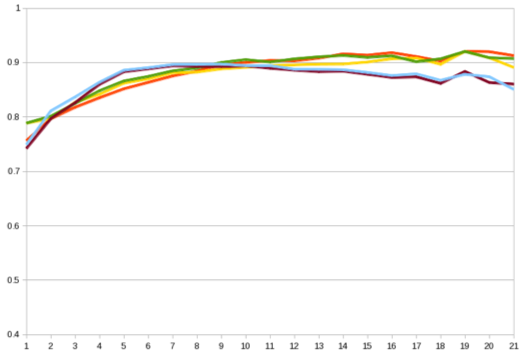
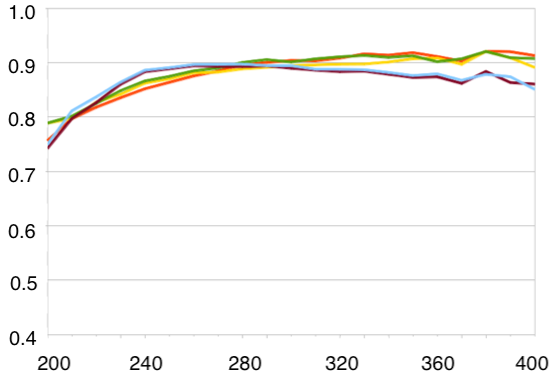
added pics for gaps

diff --git a/ltcc/mirrors.tex b/ltcc/mirrors.tex
@@ -2,24 +2,25 @@
 
 As seen in \F{optics}, each LTCC segment is composed of four optical surfaces: one elliptical mirror,
 one hyperbolic mirror, one cylindrical mirror, and the Winston cone.
-The reflectivity of a random selection of 30 elliptical, cylindrical and hyperbolic mirrors from two sectors was measured.
+The reflectivity of a random selection of 30 elliptical, cylindrical, and hyperbolic mirrors from two sectors was measured.
 All the mirrors analyzed showed significant degradation from the original desired reflectivity of 90$\%$ in the visible spectrum,
 see for example \F{reflectivityBeforeAndAfter} (top).
-A refurbishment of the mirrors was crucial to enhance the detector response to the pion emitted Cherenkov light.
-Due to the material, assembly, and dimensions of the different types of mirrors, two different techniques were applied to refurbish the
-reflective surfaces.
+A refurbishment of the mirrors was crucial to enhance the detector response to the emitted pion Cherenkov light.
+Due to the material, assembly, and dimensions of the different types of mirrors, two different techniques were employed to refurbish the
+reflective surfaces as discussed below.
 
 \begin{figure}
 \centering
-	\includegraphics[width=0.97\columnwidth, height=0.7\columnwidth]{img/mirrorsReflectivityBefore.png}
+	\includegraphics[width=0.99\columnwidth, height=0.7\columnwidth]{img/mirrorsReflectivityBefore.png}
 	\includegraphics[width=0.99\columnwidth, height=0.7\columnwidth]{img/mirrorsReflectivityAfter.png}
 	\caption{Top: Reflectivity measurement as a a function of wavelength of a sample of 8 mirrors before re-coating,
-            each sampled at two different places (front and back). The reflectivity
-				was measured using a monochromator (Newport model CS260-USB-1-FH-A) with a deuterium light source with a reach
-            between 200 nm and 400 nm. The reflectivity showed a degraded quality of about 65$\%$ instead of an optimal 90$\%$.
-			   Bottom: Reflectivity measurement as a function of wavelength of a sample of 5 mirrors measured after gluing the Lexan strips (see text for detail).
-            Note the very high value of reflectivity in the UV region, where most of the Cherenkov light is produced. In the visible spectrum,
-            the reflectivity is about 90$\%$.}
+            each sampled at two different places on their surface. The reflectivity
+			was measured using a monochromator (Newport model CS260-USB-1-FH-A) with a deuterium light source with a reach
+            between 200 nm and 400 nm. The average reflectivity was about 65$\%$ instead of an optimal 90$\%$.
+			Bottom: Reflectivity measurement as a function of wavelength of a sample of 5 mirrors measured
+            after gluing on the Lexan strips (see text for detail).
+            Note the very high value of reflectivity in the UV region, where most of the Cherenkov light is produced.
+            In the visible spectrum, the reflectivity is about 90$\%$.}
 	\label{fig:reflectivityBeforeAndAfter}
 \end{figure}
 
@@ -27,55 +28,74 @@ reflective surfaces.
 \subsubsection{Re-coating of cylindrical mirrors}
 
 The cylindrical mirrors range from 6 to 12 inches in length. Each mirror is made from a single piece of aluminum or plastic.
-Due to the small size, they fit in most vacuum chambers used to coat mirrors by evaporation of aluminum with magnesium fluoride
-(AlMgF$_2$). After successful testing of re-coating of AlMgF$_2$ onto the existing substrate, the work of re-coating 216 cylindrical mirrors
+Due to their small size, they fit in most vacuum chambers used to coat mirrors by evaporation of aluminum with magnesium fluoride
+(AlMgF$_2$). After successful testing of re-coating of AlMgF$_2$ onto the existing substrate, the work of re-coating the 216 cylindrical mirrors
 was awarded to ECI~\cite{ECI}. See \F{reflectivityBeforeAndAfter} (bottom) for typical reflectivity values after re-coating.
 
 \subsubsection{Re-coating of elliptical and hyperbolic mirrors}
 
-The elliptical and hyperbolic mirrors are composed by a Kevlar support structure with a Lexan substrate. The mounting hardware
-material, which allowed for pitch, roll, and yaw alignment of the mirrors, included wood and aluminum that was glued to the support structure.
+The elliptical and hyperbolic mirrors are composed of a Kevlar support structure with a Lexan substrate.
+It was not possible to changed this hardware from its original design and construction in 1997.
+The support material, which allowed for pitch, roll, and yaw alignment of the mirrors, included
+wood and aluminum that was glued to the support structure.
 
-Several companies attempted to re-coat these mirrors but failed due to the outgassing of the various materials. Furthermore, many of the mirrors
-are $>$1 m in length, longer than most vacuum chambers. Therefore the AlMgF$_2$ could not be re-deposited directly on the mirrors.
+Several companies attempted to re-coat these mirrors but failed due to the outgassing of the various materials.
+Furthermore, many of the mirrors are $>$1 m in length, longer than most vacuum chambers.
+Therefore the AlMgF$_2$ could not be re-deposited directly onto the mirror substrates.
 
-A different approach consisted of coating thin (25 $\mu m$) Lexan strips and gluing the strips onto the mirror substrate. While promising, this
-presented the challenge of protecting the coated Lexan strip from shipping and handling and from the gluing procedure to the mirrors.
+A different approach consisted of coating thin (25 $\mu$m) Lexan strips and gluing the strips onto the mirror substrate.
+While promising, this presented the challenge of protecting the coated Lexan strip from shipping and handling and
+from the gluing procedure to the mirrors.
 
 A working chain was setup to:
 
 \begin{enumerate}
 	\item coat the Lexan strip
-	\item protect with a temporary film for shipping and handling
+	\item protect the strip with a temporary peel-able film for shipping and handling
 	\item ship to Jefferson Lab
-	\item glu to mirror substrates
+	\item glue the strip to mirror substrates
 	\item remove the protective film
-	\item test reflectivity
+	\item test the reflectivity
 \end{enumerate}
 
-An example of unwrapping the film off the Lexan strip is shown in \F{filmOnStrip} (top). Several companies produced various test samples with
+An example of unwrapping the film off the Lexan strip is shown in \F{filmOnStrip}. Several companies produced various test samples with
 various protective material films. The job was eventually awarded to ECI \cite{ECI}.
-%The setup to glue the coated Lexan strip onto the existing mirrors is shown in \F{filmOnStrip} (bottom).
-After 24 hours of curing time the film was removed.
+The gluing of the strips to the mirror was done at Jefferson Lab. The mirrors were vacuum-holded on a supporting structure.
+The glue was sprayed on the mirror and directed out by a venting system. The strip was applied to the substrate and after 24 hours
+of curing time the film was removed.
 The typical reflectivity of the refurbished mirrors is shown in \F{reflectivityBeforeAndAfter} (bottom).
 
 
 \begin{figure}
 \centering
 	\includegraphics[width=0.98\columnwidth, height=0.7\columnwidth]{img/filmOnStrip.png}
+%	\includegraphics[width=0.98\columnwidth,keepaspectratio]{img/mirrorSetup.png}
 	\caption{The protective film. For the elliptical and hyperbolic mirrors the Lexan strips were coated with AlMgF$_2$
-				and covered with films to protect the handling and the
-				gluing on top of the mirrors. The photo shows the process of removing the
-            protecting film from one such strip. The surface reflectivity was tested immediately after the installation on the substrate and again
-            48 hours after that. Only the samples from ECI \cite{ECI} resulted in a consistent high reflectivity. }
+			 and covered with films to protect the mirrors during handling and the gluing on top of the mirror substrates.
+             The photograph shows the process of removing the protecting film from one such strip.
+             The surface reflectivity was tested immediately after the installation on the substrate and again 48 hours after that.
+             Only the samples from ECI \cite{ECI} resulted in a consistent high reflectivity. }
 	\label{fig:filmOnStrip}
 \end{figure}
 
 
-\subsubsection{Elliptical mirrors gaps}
+\subsubsection{Elliptical mirror gaps}
 
-The segment with long elliptical mirrors presented several gaps between them, some a few cm long. To make sure that no light is lost in these gaps,
-additional 120 $\mu$ m thick Lexan extensions coated with AlMgF$_2$ were glued to cover the gaps. The strips were manufactured by ECI~\cite{ECI}.
+The LTCC elliptical mirrors, especilly the longest ones, presented several gaps between the mirrors, some a few cm long.
+This was evident also in the data analyses as a loss of efficiency between the mirrors.
+To make sure that no light is lost in these gaps, additional 120 $\mu$m thick Lexan extensions were produced and coated with AlMgF$_2$.
+These strips were manufactured by ECI~\cite{ECI}. The extension were fitted and glued on left side elliptical mirrors to cover the gaps,
+see \F{gapBeforeAndAfter}.
+
+\begin{figure}
+\centering
+	\includegraphics[width=0.98\columnwidth, height=0.7\columnwidth]{img/gapBefore.png}
+	\includegraphics[width=0.98\columnwidth, height=0.7\columnwidth]{img/gapAfter.png}
+	\caption{Top: the gaps between mirrors before refurbishing LTCC. These gaps were also seeing in the data as
+			 drop of efficiency near the middle of the detector, as the Cherenkov light was not collected.
+             Bottom: the gaps are covered by coated lexan strip.}
+	\label{fig:gapBeforeAndAfter}
+\end{figure}
 
 
 \subsubsection{Mirror re-coating summary and results}
@@ -89,11 +109,11 @@ summary Table~\ref{tab:strips}.
 	\begin{center}
 		\begin{tabular}{| l | c |}
 			\hline \hline
-			Quantity  & Description \\
+			Quantity  & Dimensions (inches) \\
 			\hline
-			190       & 9" x 36" x 0.010” coated sheet    \\
-			150       & 10" x 36" x 0.010” coated sheet   \\
-			6         & 10" x 36" x 0.010” coated sheet   \\
+			190       & 9  x 36 x 0.010  \\
+			150       & 10 x 36 x 0.010  \\
+			6         & 10 x 36 x 0.010  \\
 			\hline \hline
 		\end{tabular}
 	\end{center}
